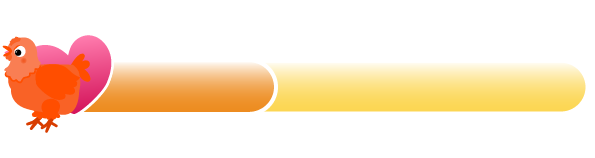
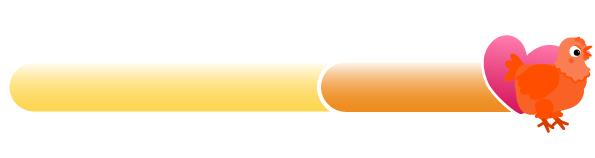
insert boss health bar

diff --git a/models/world.class.js b/models/world.class.js
@@ -3,6 +3,7 @@ class World {
   bottleBar = new BottleBar();
   healthBar = new HealthBar();
   coinBar = new CoinBar();
+  bossBar = new BossBar();
   throwableObjects = [];
   inventory = 20; //muss später wieder auf null
   level = level1;
@@ -70,7 +71,7 @@ class World {
     this.throwableObjects.forEach((throwBottle) => {
       if (this.level.boss[0].isColliding(throwBottle)) {
         this.level.boss[0].hit(7);
-        
+        this.bossBar.setPercentage(this.level.boss[0].energy);
       }
     });
 
@@ -111,6 +112,7 @@ class World {
     this.addToMap(this.bottleBar);
     this.addToMap(this.healthBar);
     this.addToMap(this.coinBar);
+    this.addToMap(this.bossBar);
     this.ctx.translate(this.camera_x, 0);
 
     this.ctx.translate(-this.camera_x, 0);

diff --git a/models/status-bar-boss.class.js b/models/status-bar-boss.class.js
@@ -1,0 +1,19 @@
+class BossBar extends StatusBar {
+  IMAGES = [
+    "../img/7_statusbars/2_statusbar_endboss/orange/orange0.png",
+    "../img/7_statusbars/2_statusbar_endboss/orange/orange20.png",
+    "../img/7_statusbars/2_statusbar_endboss/orange/orange40.png",
+    "../img/7_statusbars/2_statusbar_endboss/orange/orange60.png",
+    "../img/7_statusbars/2_statusbar_endboss/orange/orange80.png",
+    "../img/7_statusbars/2_statusbar_endboss/orange/orange100.png",
+  ];
+
+  constructor() {
+    super();
+    this.loadImages(this.IMAGES);
+    this.y = 0;
+    this.x = 560;
+
+    this.setPercentage(100);
+  }
+}

diff --git a/index.html b/index.html
@@ -12,6 +12,7 @@
     <script src="./models/status-bar-bottle.class.js"></script>
     <script src="./models/status-bar-health.class.js"></script>
     <script src="./models/status-bar-coin.class.js"></script>
+    <script src="./models/status-bar-boss.class.js"></script>
     <script src="./models/movable-object.class.js"></script>
     <script src="./models/background-object.class.js"></script>
     <script src="./models/cloud.class.js"></script>
